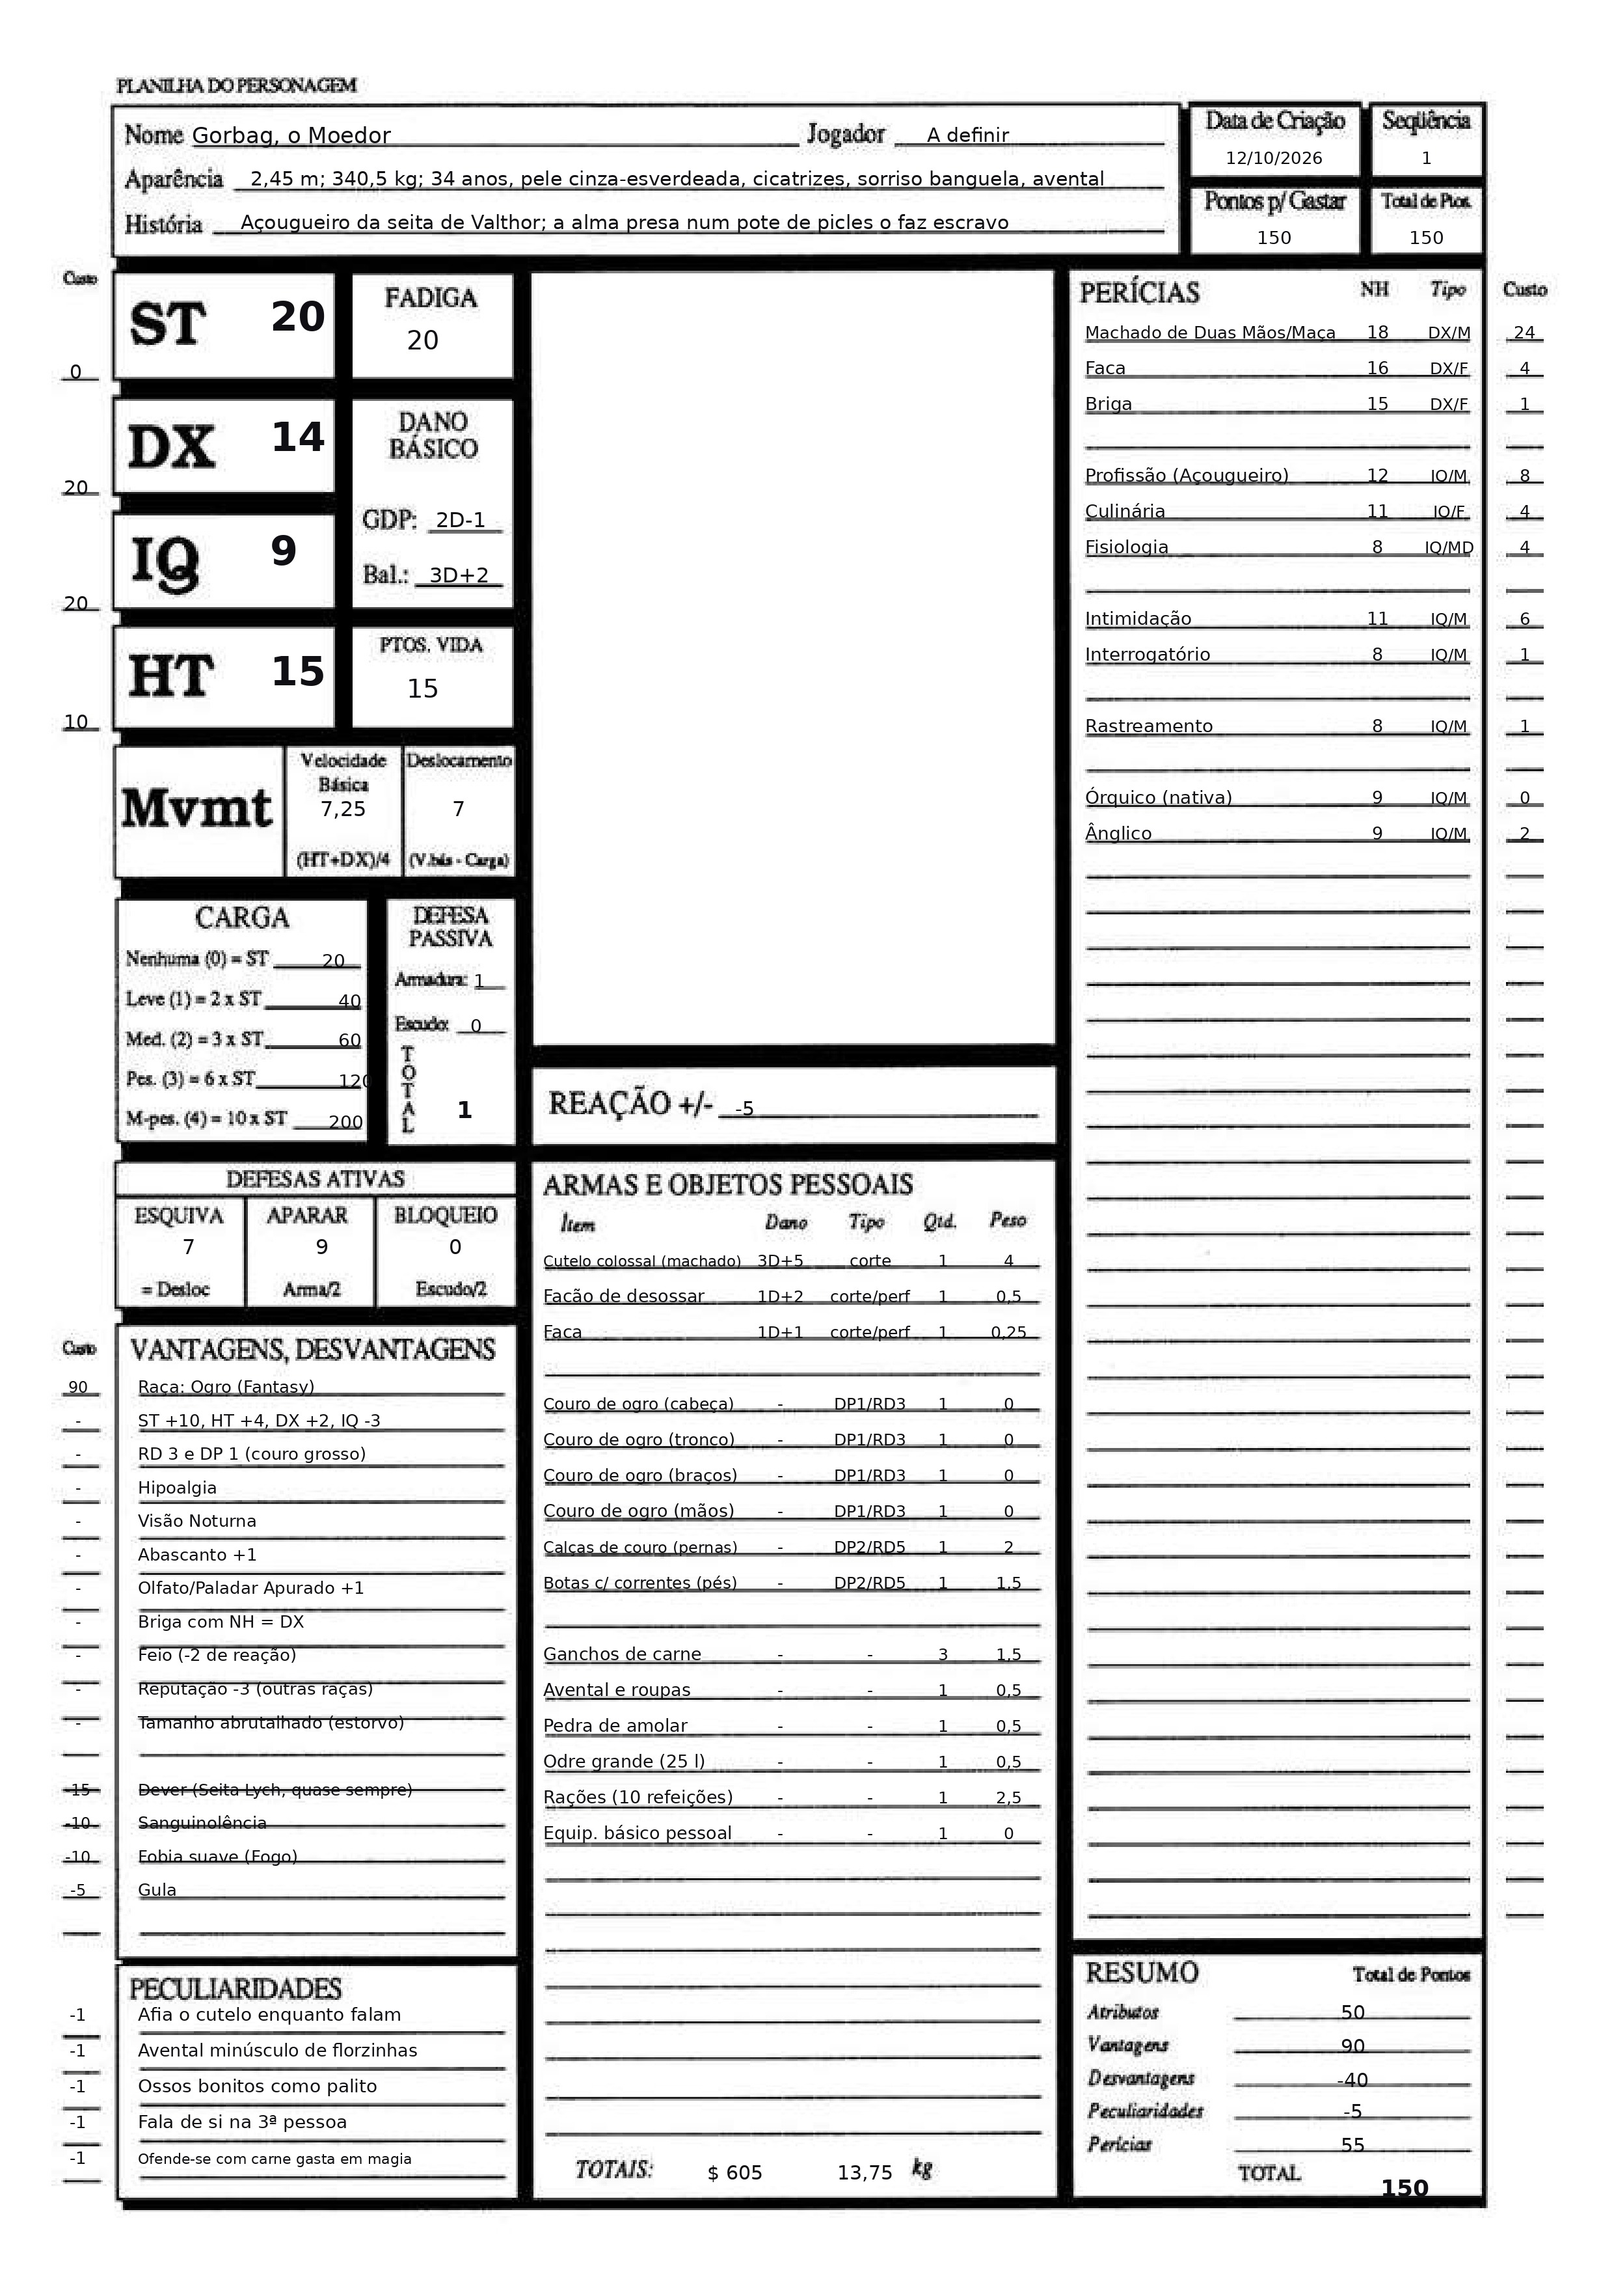
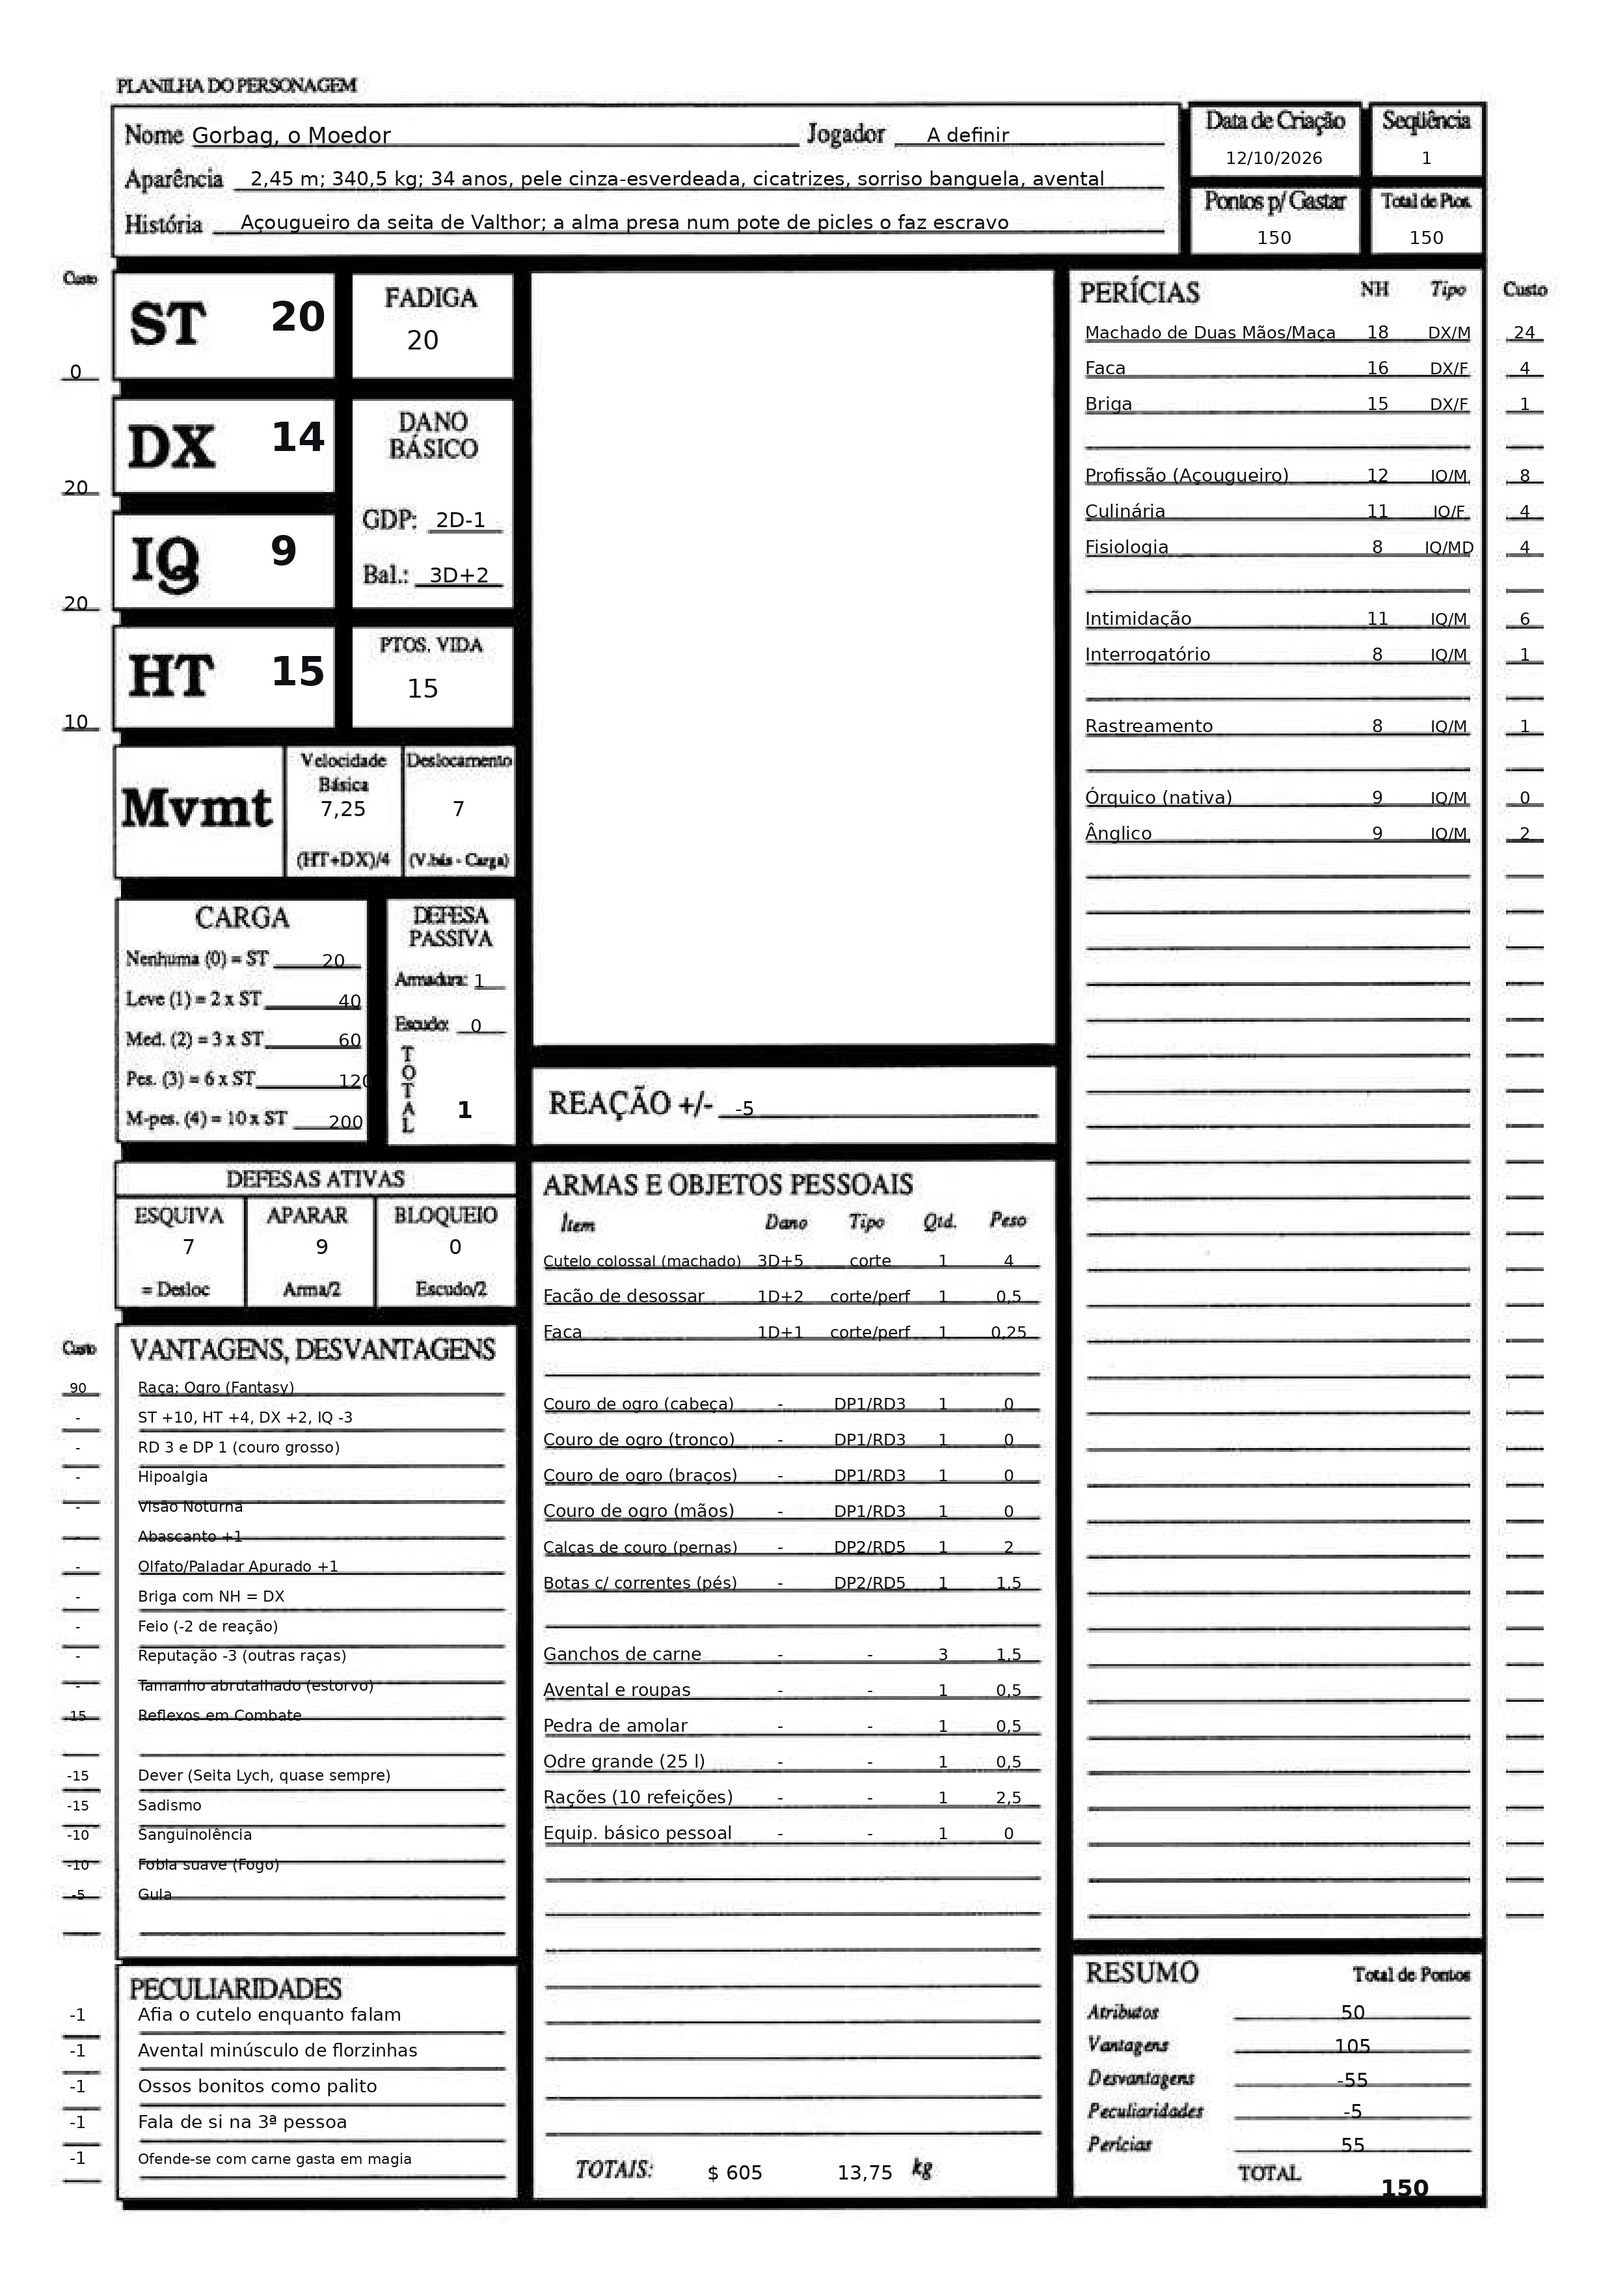
personagens: gorbag — Reflexos em Combate pagos com Sadismo
Reflexos em Combate (+15) entram na ficha, pagos pelo Sadismo (-15), a pedido do André. O total
continua 150; as desvantagens passam a -55, acima do teto de -40 da mesa, e isso fica para o
Mestre aprovar. Esquiva 7 e Aparar 9 seguem sem o +1 na ficha, como nas outras: a
resolver-defesa soma os Reflexos na hora. Sadismo traz -3 de reação de quem souber dele.
CONTEXTO.md regerado.

Claude-Session: https://claude.ai/code/session_01HVBwUD344TfZqG8BBMPAC4

Changed region(s): [[0.0931, 0.5904, 0.2173, 0.8389]]

diff --git a/personagens/gorbag-o-moedor/personagem.md b/personagens/gorbag-o-moedor/personagem.md
@@ -62,8 +62,9 @@ profissionalismo impecável quando o assunto é desmembrar.
   Nas pernas e nos pés vale a regra de Armaduras Sobrepostas (MB, `07-equipamento-e-carga.md`):
   a camada de dentro, aqui a pele, **soma RD mas não DP**. Por isso fica DP 2, não 3. A última
   palavra é do Mestre.
-- **Esquiva:** 7 · **Aparar (cutelo):** 9 · **Bloqueio:** —
+- **Esquiva:** 7 · **Aparar (cutelo):** 9 · **Bloqueio:** — (+1 de Reflexos em Combate na hora da defesa: 8 e 10)
 - **Reação básica:** −5 (Feio −2, Reputação −3 entre as outras raças). Com orcs e ogros, só o −2.
+  Quem souber do Sadismo dele soma mais −3.
 
 ## Vantagens e Desvantagens
 
@@ -80,16 +81,27 @@ profissionalismo impecável quando o assunto é desmembrar.
 | — Feio (−2 de reação) | - |
 | — Reputação −3 (outras raças) | - |
 | — Tamanho abrutalhado (estorvo) | - |
+| Reflexos em Combate | +15 |
 | Dever (Seita Lych, quase sempre) | −15 |
+| Sadismo | −15 |
 | Sanguinolência | −10 |
 | Fobia suave (Fogo) | −10 |
 | Gula | −5 |
 
-**Vantagens: 90 pontos · Desvantagens: −40 pontos** (no limite da mesa).
+**Vantagens: 105 pontos · Desvantagens: −55 pontos.** O Sadismo entrou depois da criação para
+pagar os Reflexos em Combate, e a coluna passou do teto de −40 da mesa: precisa do aval do Mestre.
 
 Notas de arbitragem:
 - **Dever (Seita Lych)** — "quase todo o tempo" (15 ou menos): a seita o chama e ele vai,
   porque a alma está no pote. Arrisca a vida, então vale os −15 do livro.
+- **Reflexos em Combate** — +1 em todas as defesas ativas (Esquiva 8, Aparar 9 → 10 na hora da
+  defesa; a ficha guarda os números sem o bônus, que a `resolver-defesa` soma), +2 nas
+  Verificações de Pânico (a da Fobia de Fogo inclusive), +1 em Sacar Rápido, nunca fica
+  paralisado de surpresa e ganha +6 para sair de atordoamento mental.
+- **Sadismo** — sente prazer em fazer sofrer. Quando pode, mas sabe que não deve (um prisioneiro
+  que tem de sair ileso), teste de Vontade (9) para se conter. Quem souber que ele é sádico
+  reage com −3, salvo culturas que dão pouco valor à vida. O livro avisa que é traço de vilão; o
+  Mestre pode vetar.
 - **Sanguinolência** — teste de Vontade (9) para aceitar rendição ou fazer prisioneiro.
 - **Fobia suave (Fogo)** — o MB não traz a fobia de fogo na lista das comuns; o custo de −10
   segue as de frequência parecida (Altura, Ruídos Altos) e fica para o Mestre confirmar.
@@ -178,8 +190,8 @@ com o Mestre. O pote com a alma **não** está com ele: está com Valthor.
 | Categoria | Pontos |
 |---|---|
 | Atributos | 50 |
-| Vantagens | 90 |
-| Desvantagens | −40 |
+| Vantagens | 105 |
+| Desvantagens | −55 |
 | Peculiaridades | −5 |
 | Perícias | 55 |
 | **Total** | **150** |

diff --git a/campanha/CONTEXTO.md b/campanha/CONTEXTO.md
@@ -2,7 +2,7 @@
 
 _(**gerado** por `campanha.py elenco` a partir de `personagens/*/personagem.json` — não edite aqui: mude a ficha e regere. É lido em **toda** execução: antes de decidir o que um personagem faz, sofre ou diz, confira as **desvantagens, peculiaridades e vantagens dele** abaixo. Só entra o que influencia a cena. Atributos, perícias e equipamento estão na ficha (a `contexto` os traz a cada jogada); PV, Fadiga, bolsa e ferimento, em `saude.md`, `bolsa.md` e `mundo.md`.)_
 
-_7 personagem(ns). Atualizado em 12/10/2026._
+_7 personagem(ns). Atualizado em 13/10/2026._
 
 ## Comam Obabaroy
 
@@ -24,8 +24,8 @@ A definir · Ogro (Fantasy) · Guerreiro (MB) — linha de frente · 34 anos
 **Aparência:** 2,45 m; 340,5 kg; 34 anos, pele cinza-esverdeada, cicatrizes, sorriso banguela, avental  
 **Quem é:** Açougueiro da seita de Valthor; a alma presa num pote de picles o faz escravo  
 **Reação fixa:** -5  
-**Vantagens:** Raça: Ogro (Fantasy) (+90)  
-**Desvantagens:** Dever (Seita Lych, quase sempre) (-15) — Valthor chama e ele vai: a alma dele está no pote; Sanguinolência (-10) — Vontade para poupar rendido ou fazer prisioneiro; Fobia suave (Fogo) (-10) — Verificação de Pânico diante de labareda ou tocha; Gula (-5) — Vontade para recusar comida; cheiro de sangue distrai  
+**Vantagens:** Raça: Ogro (Fantasy) (+90); Reflexos em Combate (+15)  
+**Desvantagens:** Dever (Seita Lych, quase sempre) (-15) — Valthor chama e ele vai: a alma dele está no pote; Sadismo (-15) — Vontade para não fazer sofrer quem deve sair ileso; -3 de reação se souberem; Sanguinolência (-10) — Vontade para poupar rendido ou fazer prisioneiro; Fobia suave (Fogo) (-10) — Verificação de Pânico diante de labareda ou tocha; Gula (-5) — Vontade para recusar comida; cheiro de sangue distrai  
 **Peculiaridades:** Afia o cutelo enquanto falam; Avental minúsculo de florzinhas; Ossos bonitos como palito; Fala de si na 3ª pessoa; Ofende-se com carne gasta em magia  
 **Línguas:** Órquico (nativa) 9, Ânglico 9  
 *Ficha completa: `personagens/gorbag-o-moedor/personagem.md`*
